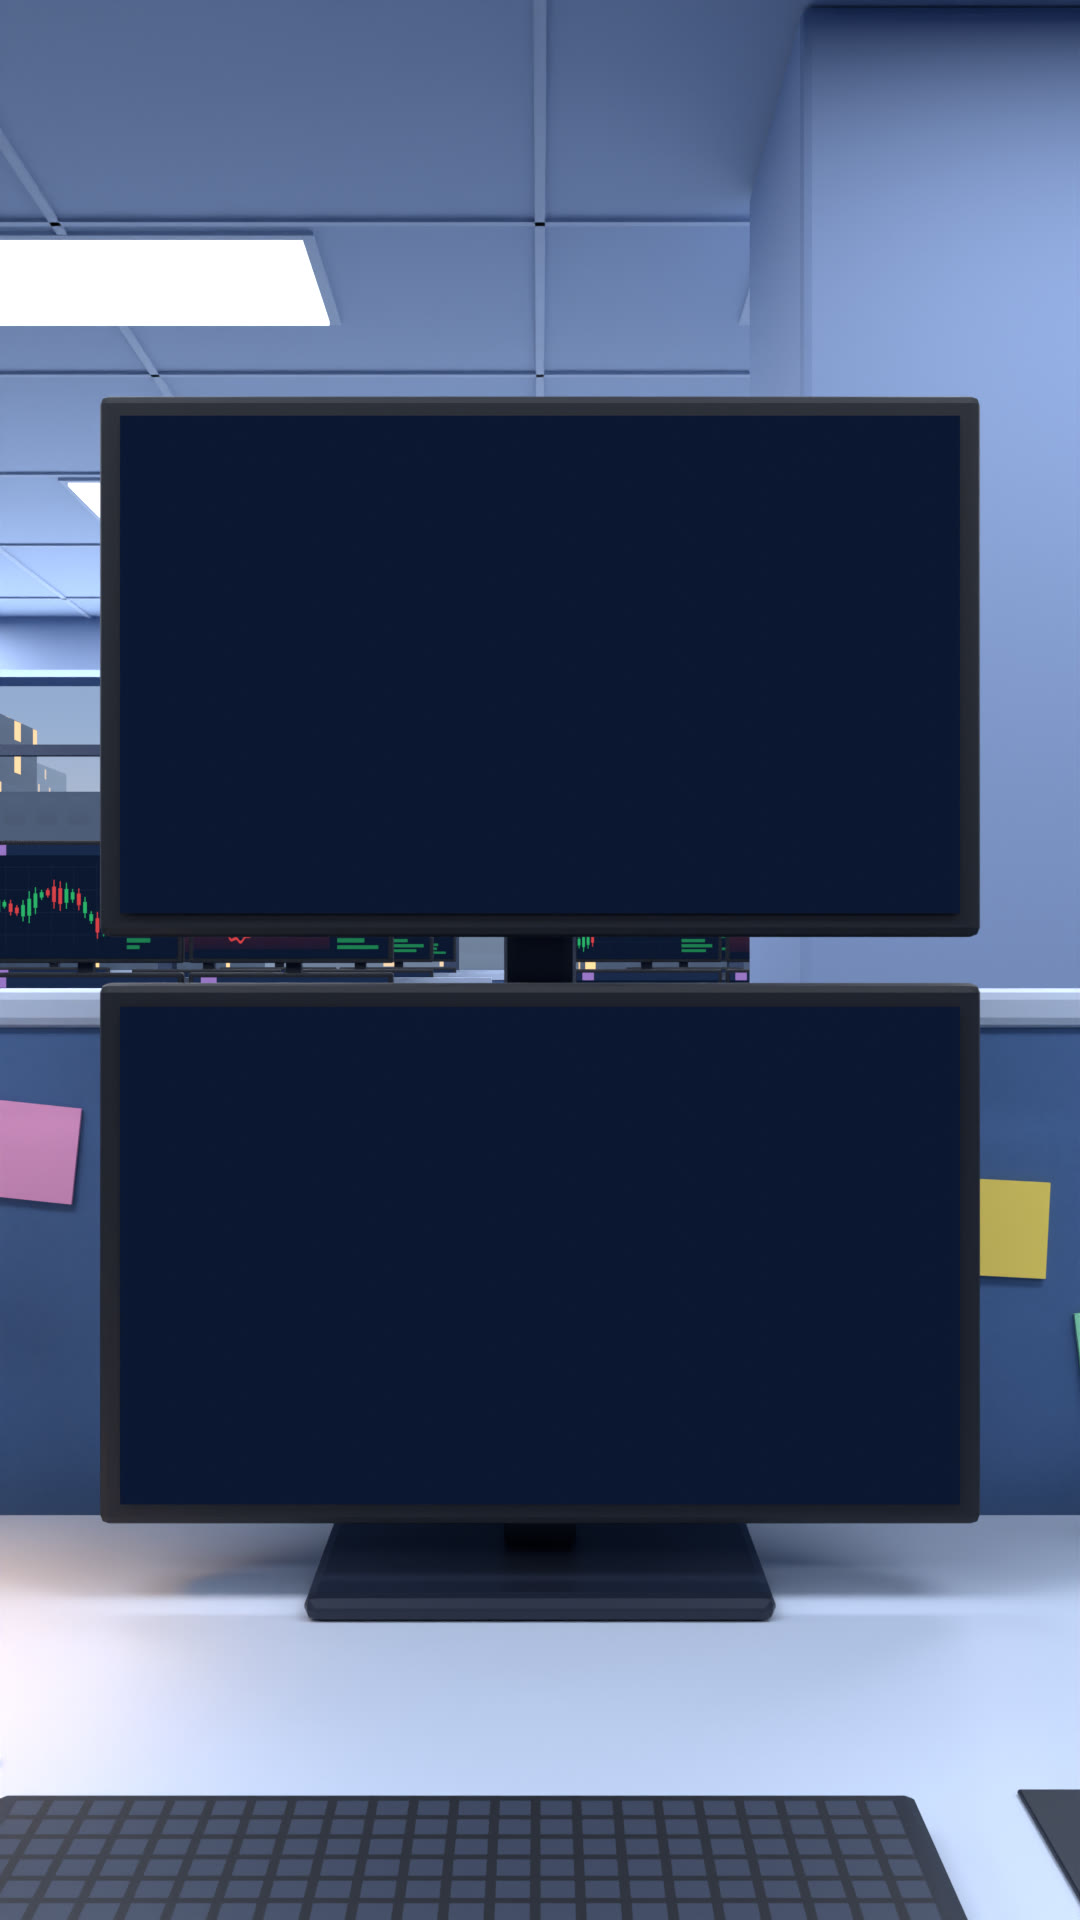
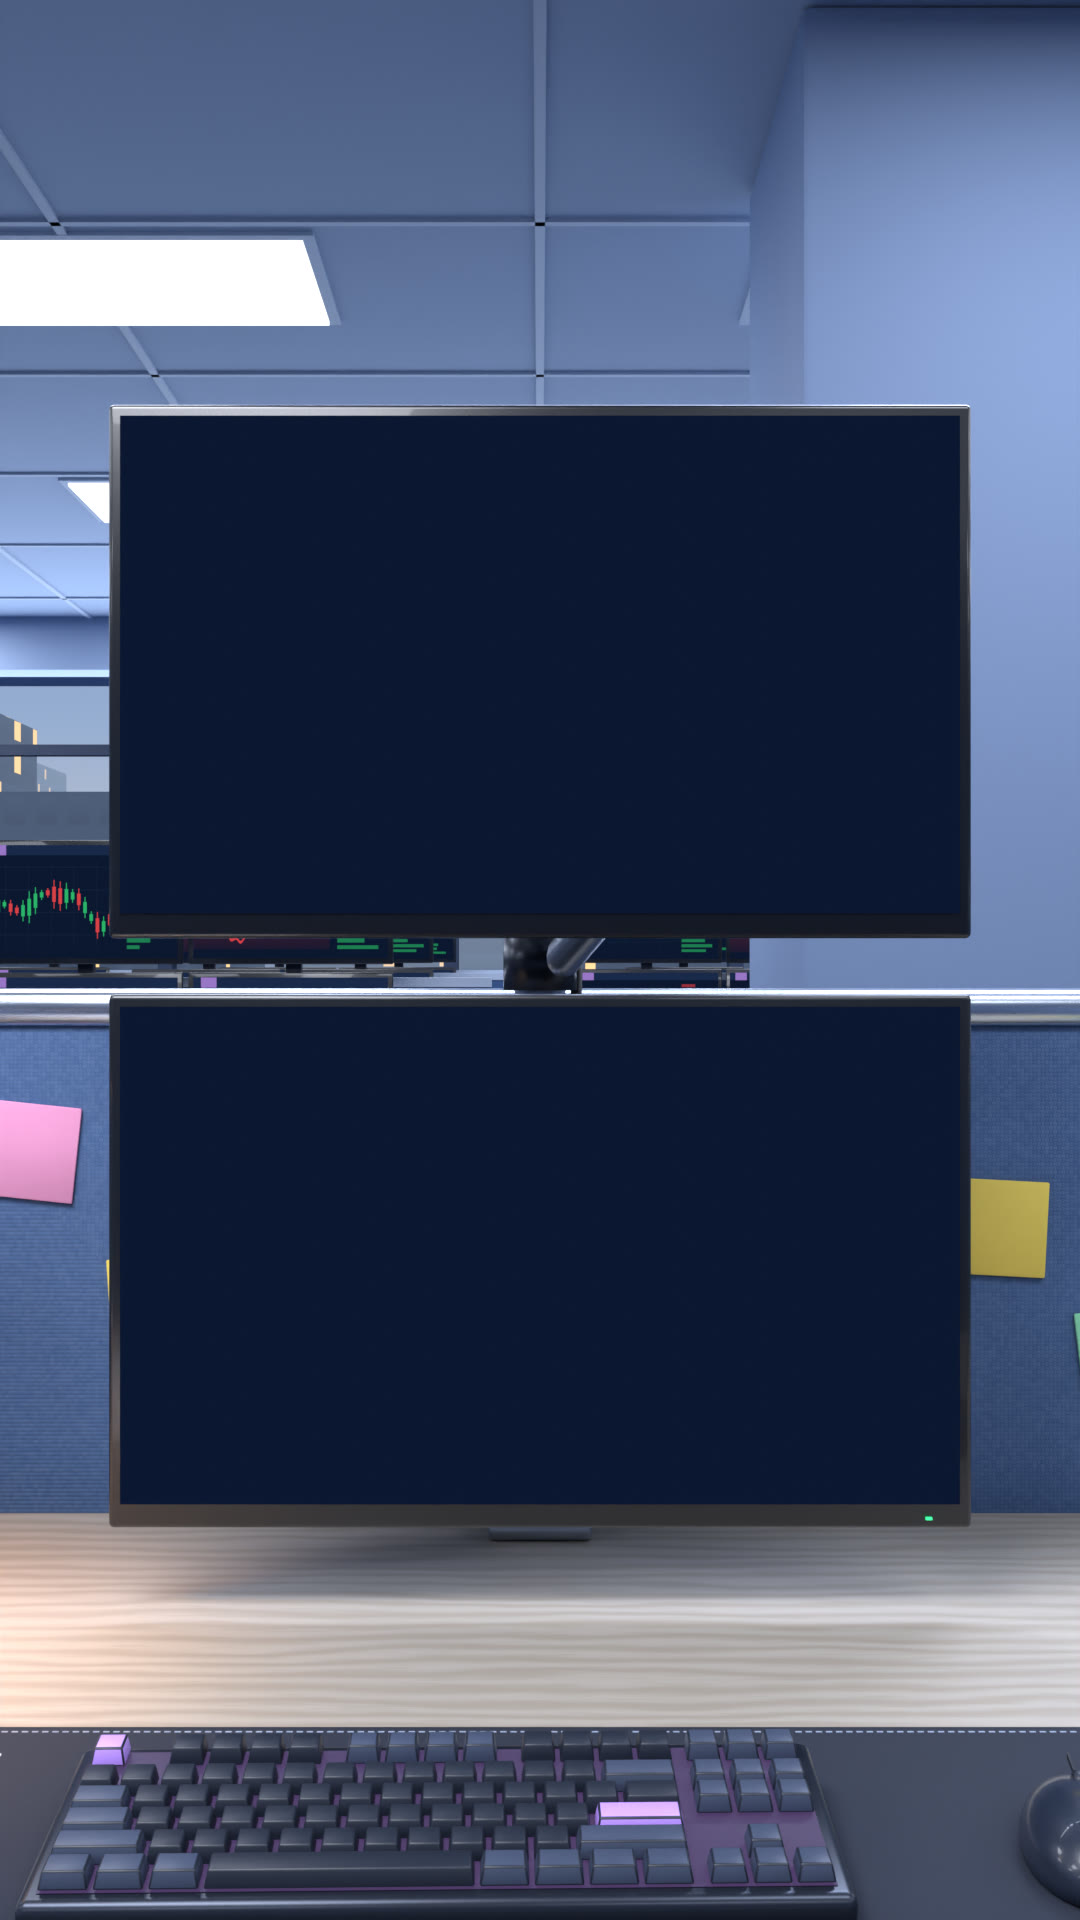
Art: deeper hero desk render (monitors, stand, keyboard, desk, partitions, light)
Thin-bezel monitors with a chamfered frame, chin and tapered back shell on a
clamped pole stand with gas-spring arms; a modelled tenkeyless keyboard with
bevelled keycaps and a faint lilac backlight; rounded mouse on a stitched felt
desk mat; oak laminate desk with an edge band (walnut for tier2, stone for
tier3); woven partition fabric with aluminium caps and posts; key and rim area
lights. Default samples 96 -> 192. Camera and screen contract unchanged; verify
passes for all cameras and variants. All five backdrops re-rendered.

Claude-Session: https://claude.ai/code/session_01Hoqj1mrSQjRfD6HWXNvnMg

Changed region(s): [[0.0, 0.1875, 1.0, 1.0], [0.0, 0.3125, 0.0306, 0.3438]]

diff --git a/CLAUDE.md b/CLAUDE.md
@@ -17,7 +17,7 @@ Read this at the start of every session. The full design spec is `docs/HANDOFF.m
 
 ## Art
 
-- `assets/desk.jpg` and `assets/wide.jpg` are rendered from `art/build_scene.py` (local headless Blender, fully procedural, about 12 minutes for both at 96 samples). Renders go to `art/out/` (git-ignored); convert to JPG with `ffmpeg -i art/out/desk.png -q:v 3 assets/desk.jpg`. See `art/README.md`.
+- `assets/desk.jpg` and `assets/wide.jpg` are rendered from `art/build_scene.py` (local headless Blender, fully procedural, about 22 minutes for both at 192 samples). Renders go to `art/out/` (git-ignored); convert to JPG with `ffmpeg -i art/out/desk.png -q:v 3 assets/desk.jpg`. See `art/README.md`.
 - Keep the camera and screen contract fixed so the percentage-based overlays line up: 9:16 renders, `CAM_main` 35mm at (0, −1.02, 1.17) looking +Y, `CAM_wide` 30mm at (0, −2.85, 1.70) with rotation (1.466, 0, −0.025), and screens of 0.54×0.32 m centred at (0, 0.18, 1.36) and (0, 0.18, 0.98).
 - Measured screen rectangles (% of frame, left/right/top/bottom): CAM_main top 11/89/21.6/47.6, bottom 11/89/52.4/78.4. CAM_wide top 33.0/59.4/46.2/54.9, bottom 33.2/59.3/56.4/65.0. Intro zoom: scale 3, origin 44.3% 58.4%.
 - Outstanding art: listed in `docs/HANDOFF.md` §11 (ignore its Higgsfield link).

diff --git a/art/README.md b/art/README.md
@@ -19,7 +19,7 @@ blender -b --factory-startup -P art/build_scene.py -- [--out DIR] [--samples N] 
 
   Convert them like the others: `ffmpeg -y -i art/out/desk-tier2.png -q:v 3 assets/desk-tier2.jpg` (and the same for `tier3` and `fired`).
 
-Needs Blender 4.2 LTS. It renders with Cycles on the CPU (EEVEE needs a GPU). A full render at 192 samples takes about TIMING on 4 cores.
+Needs Blender 4.2 LTS. It renders with Cycles on the CPU (EEVEE needs a GPU). A full render at 192 samples takes about 9 minutes for CAM_main and 12 for CAM_wide on 4 cores (tier1 both: about 22 minutes; tier2 8, tier3 3, fired 9).
 
 The script prints the measured screen rectangles for both cameras and checks them against the contract below, then ray-casts each hero screen to check that nothing hides it. For a variant it also projects every added object and checks that nothing in front of the screens lands inside their rectangles; for `fired`, every part of the box must sit below the bottom screen (lower than 78.4% of the frame).
 
